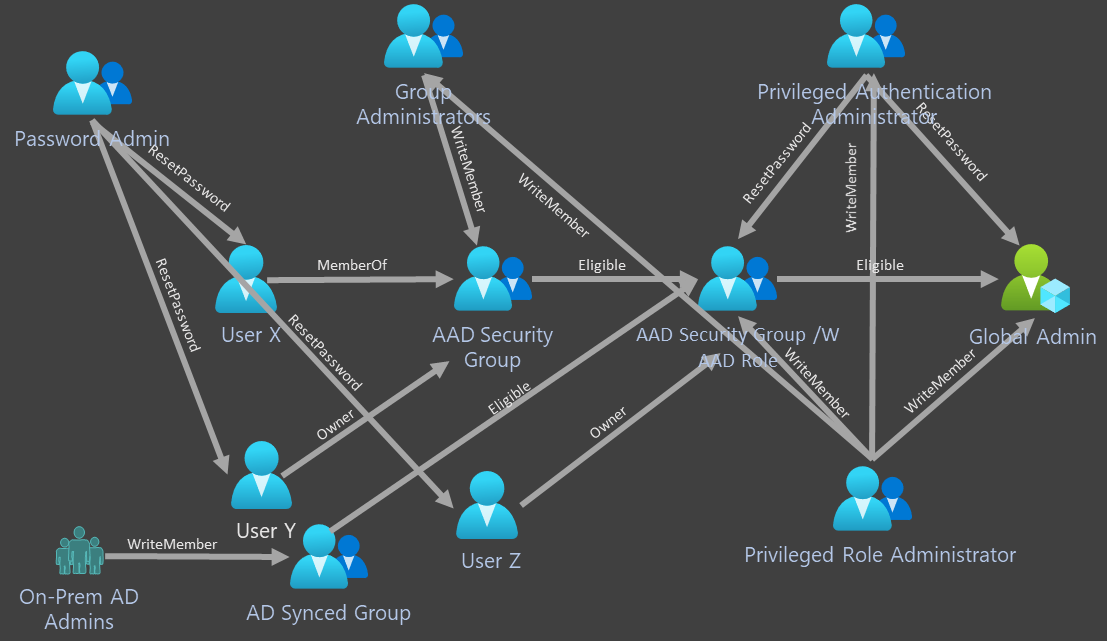
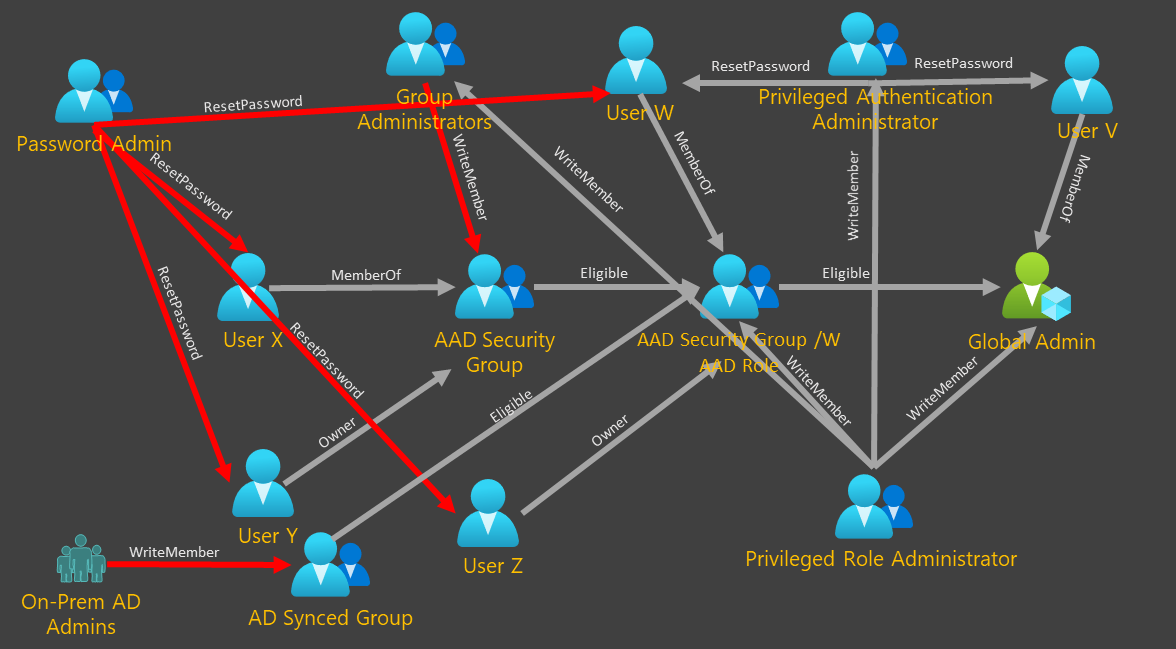
Update PIM blog

Changed region(s): [[0.0, 0.0, 0.9828, 0.9984]]

diff --git a/content/english/blog/Azure AD Group Nesting.md b/content/english/blog/Azure AD Group Nesting.md
@@ -89,17 +89,18 @@ I have found that Azure AD Custom Roles and Azure Custom Roles behave the same a
 
 Column headings represent the objects that can have members. Table rows contain the objects that are potential members.
 
+****Updated 26 Mars 2021**
 
 | Possible member        | AAD Role      | Az Role  | AAD Security Group  | *AAD Security Group /W AAD Roles  | AAD M365 Group | *AAD M365 Group /W AAD Roles|Synced Group|
 | ------------- |:-------------:| -----:| -----:| -----:| -----:| -----:| -----:|
-| User                        |    P |    P |    D |    P |    P |    P |    - |
-| Synced User                 |    P |    P |    D |    P |    P |    P |    D |
+| User                        |    P |    P |    D |    P |    D |    P |    - |
+| Synced User                 |    P |    P |    D |    P |    D |    P |    D |
 | AAD Role                    | -    |    - |    - |    - |    - |    - |    - |
 | AZ Role                     |    - |    - |    - |    - |    - |    - |    - |
 | ADD Security Group                   |    - |    P |    D |    P |    - |    P |    - |
 | AAD Security Group /W AAD Roles       |    P |    P |    D |    P |    - |    P |    - |
-| AAD M365 Group              |    - |    P |    D |    P |    - |    P |    - |
-| AAD M365 Group /W AAD Roles  |    P |    P |    D |    P |    - |    P |    - |
+| AAD M365 Group              |    - |    P |    - |    P |    - |    P |    - |
+| AAD M365 Group /W AAD Roles  |    P |    P |    - |    P |    - |    P |    - |
 | Synced Group                |    - |    P |    D |    P |    - |    P |    - |
 
 * P = Active/eligible assignment possible with PIM
@@ -187,7 +188,9 @@ Exposure araises from the fact that:
 * \- Nesting groups in roles moves the control to other admins outside of PIM
 
   
-I draw a simple [Bloodhound](https://github.com/BloodHoundAD/BloodHound)-like attack graph bellow go give you an example of control paths that exist. This picture is far from the full graph of possible attack paths.
+I draw a simple [Bloodhound](https://github.com/BloodHoundAD/BloodHound)-like attack graph bellow go give you an example of control paths that exist. This picture is far from the full graph of possible attack paths.  
+
+****Updated 26 Mars 2021**
 
 |{{< image src="../../images/blog/PIMNesting8.webp" srcAlt="../../images/blog/PIMNesting8.png" >}}|
 | ------ |   
